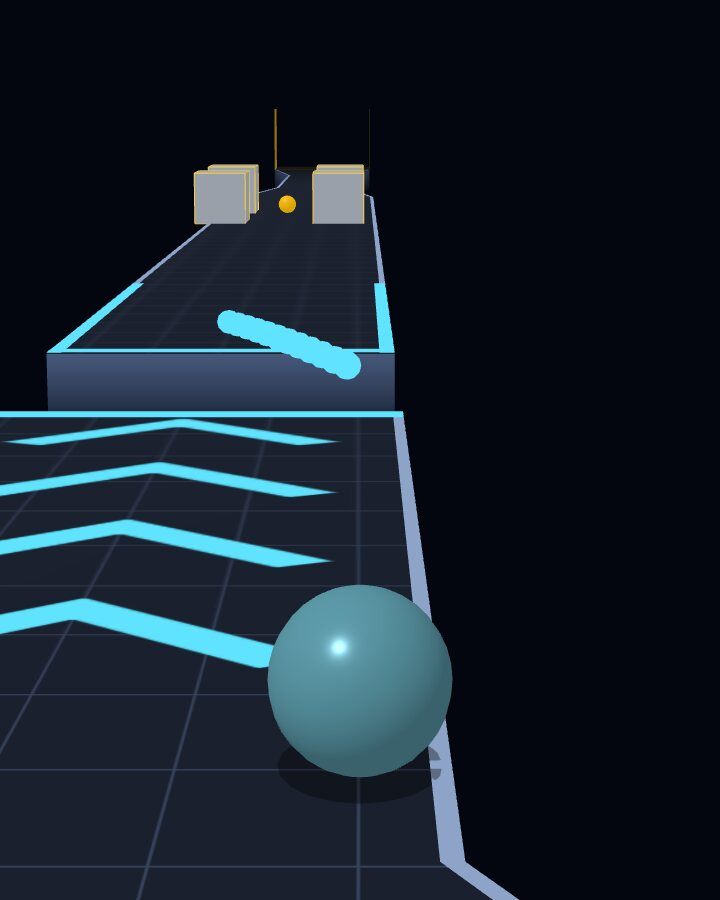
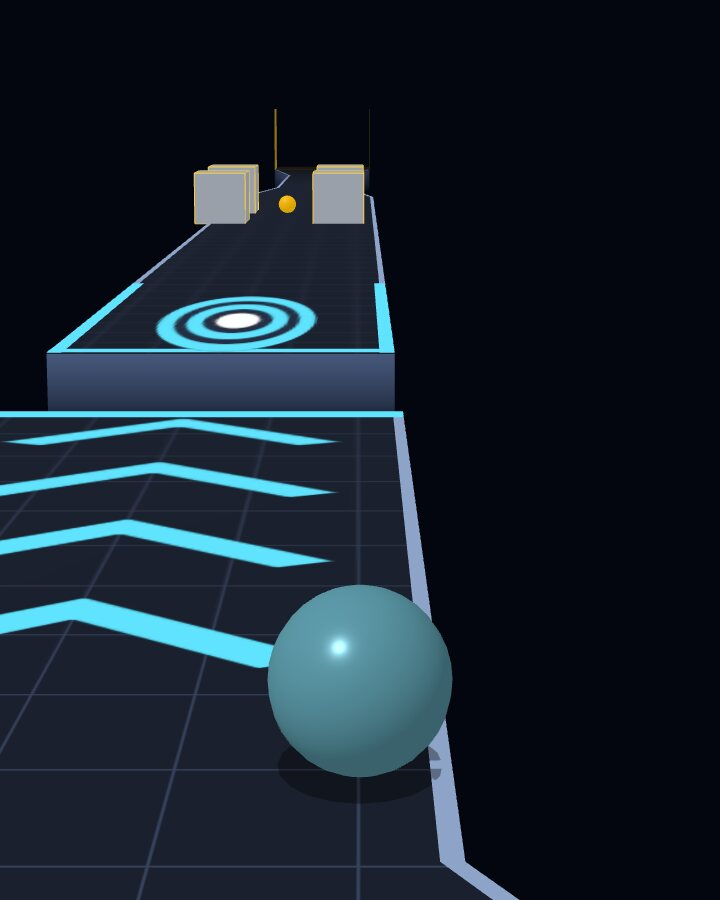
Ball Run: steering moves the ball as far as the thumb; landing bullseyes replace the dotted arc
Steering (every device): a drag became a speed clipped at the sideways top speed and the
clipped part was thrown away, so a quick swipe moved the ball 20-45% of the way at the start
of a run. The uncovered part is now owed and covered on the next ticks, at the same top
sideways speed, ending exactly where the thumb stopped. Arrow keys unchanged.

Jump cues (admin devices only, as before): the dotted flight arc followed the ball's steering
and read as a mystery moving thing. Now a fixed bullseye on each safe landing lane, two on a
split pad. How to play's jump picture and caption ("Land on the target.") updated.

CACHE v1670.

Claude-Session: https://claude.ai/code/session_01BGm65ZbjktmMvaKLeBqAJx

Changed region(s): [[0.2139, 0.3111, 0.5194, 0.4356]]

diff --git a/ball-run/js/render.js b/ball-run/js/render.js
@@ -62,8 +62,11 @@ const GATE_POOL_SIZE = 4;
 const STRIPE_LEN = 0.9;          // world units per amber/black stripe pair along a void's lip
 const HAZARD_BAND = 0.42;        // width of the striped band on each lip of a void
 const TUNNEL_CHEVRON_LEN = 2.5;  // world units per tunnel floor chevron
-const ARC_DOTS_PER_LANE = 13;    // flight-arc dots per landing lane (one lane, or two on a split pad)
-const ARC_DOTS_MAX = 2 * ARC_DOTS_PER_LANE;
+// Landing targets (2026-11-25, Matt on the dotted flight arc: "it's not clear AT ALL what their purpose is. Find a
+// better way"): one fixed bullseye painted on each safe landing lane, from the pad's front edge back. Nothing moves.
+const TARGET_SEGS = 3;           // pad segments a target covers (6 world units: reads as round from the chase camera)
+const TARGET_MAX_W = 2.6;        // world units across, at most
+const TARGET_MARGIN = 0.35;      // kept clear of a lane's edges
 
 // One repeatable TILE_SIZE-unit tile: grout drawn only on the top/left edges
 // so REPEAT-wrapping produces a single continuous grid line per tile boundary
@@ -453,7 +456,7 @@ export class Renderer {
   //     like holes" cause), and width changes have straight edges;
   //   - a deadly void has amber/black stripes on its lips and walls, and a striped centre strip from the
   //     first widening segment;
-  //   - a jump has cyan chevrons on its run-up, a cyan lip, a dotted flight arc to each landing lane, a
+  //   - a jump has cyan chevrons on its run-up, a cyan lip, a fixed bullseye on each safe landing lane (it replaced a dotted flight arc, 2026-11-25), a
   //     landing pad with a front face, a cyan rim and pillars, and down/up triangle posts for a drop/rise
   //     (these replace the amber gate posts);
   //   - outer edges get a pale rim and a slab face; the deck fades out before the generation window ends.
@@ -476,7 +479,6 @@ export class Renderer {
       q: new Float32Array(12), t: new Float32Array(8), m4: new THREE.Matrix4(),
       // the current segment's two ends (a = z0, b = z1) and its local right vector
       aCx: 0, aZ: 0, aY: 0, bCx: 0, bZ: 0, bY: 0, nx: 1, nz: 0,
-      arcLat: 0,
       col: {
         rim: lin(C.rim), jump: lin(C.jump), skirt: lin(C.skirtTop), pillar: lin(C.pillar), void: lin(this.colors.void),
       },
@@ -533,12 +535,16 @@ export class Renderer {
       u.haz = add(new QuadBatch(segs * 5, true), u.hazMat);
       u.chev = add(new QuadBatch(RUNUP_SEGS * 2, true), u.chevMat, 2);
 
-      u.dotGeo = new THREE.SphereGeometry(0.17, 8, 6);
-      u.dotMat = new THREE.MeshBasicMaterial({ color: C.jump });
-      u.dots = new THREE.InstancedMesh(u.dotGeo, u.dotMat, ARC_DOTS_MAX);
-      u.dots.frustumCulled = false;
-      u.dots.count = 0;
-      this.scene.add(u.dots);
+      // the landing target: a bullseye (shape, not hue alone: rings and a solid centre)
+      u.tgtTex = canvasTex(256, 256, (g, w) => {
+        g.clearRect(0, 0, w, w);
+        const c = w / 2;
+        const ring = (r, col) => { g.beginPath(); g.arc(c, c, r, 0, Math.PI * 2); g.fillStyle = col; g.fill(); };
+        ring(126, hex(C.jump)); ring(100, hex(C.deckTile)); ring(80, hex(C.jump)); ring(56, hex(C.deckTile)); ring(34, '#ffffff');
+      });
+      u.tgtTex.wrapS = u.tgtTex.wrapT = THREE.ClampToEdgeWrapping;
+      u.tgtMat = new THREE.MeshBasicMaterial({ map: u.tgtTex, vertexColors: true, transparent: true, depthWrite: false, side: THREE.DoubleSide });
+      u.tgt = add(new QuadBatch(TARGET_SEGS * 2 * 2, true), u.tgtMat, 2);
     }
   }
 
@@ -672,6 +678,18 @@ export class Renderer {
       this._cueWall(u.fx, aLo, bLo, 0, -D, C.skirt, C.void, false);
       this._cueWall(u.fx, aHi, bHi, 0, -D, C.skirt, C.void, false);
 
+      // landing targets: a bullseye on each safe lane, from the pad's front edge back TARGET_SEGS segments
+      const padIdx = onPad ? landHold - 1 - landLeft : -1;
+      if (padIdx >= 0 && padIdx < TARGET_SEGS) {
+        const v0 = padIdx / TARGET_SEGS, v1 = (padIdx + 1) / TARGET_SEGS;
+        if (hasVoid) {
+          this._cueTarget(aLo, aVlo - HAZARD_BAND, v0, v1);
+          this._cueTarget(aVhi + HAZARD_BAND, aHi, v0, v1);
+        } else {
+          this._cueTarget(aLo, aHi, v0, v1);
+        }
+      }
+
       // landing pad (first segment after a gap): front face, cyan front lip, pillars
       const prev = segs[i - 1];
       if (prev && prev.isGap) {
@@ -708,7 +726,6 @@ export class Renderer {
       }
     }
     for (let k = 0; k < u.batches.length; k++) u.batches[k].end();
-    if (this.deck) this._layoutArc(sim);
   }
 
   /** A pillar under the landing pad's near edge at lateral `lat`, from the slab's bottom into the void. */
@@ -719,60 +736,23 @@ export class Renderer {
     u.fx.quad(u.q, u.t, C.pillar, C.pillar, C.void, C.void);
   }
 
-  /** The dotted flight arc: the SAME formula as Sim.launchJump (impulse from the ball's current
-   *  speed), from the ball's lateral to each landing lane's centre, shown from the moment the next
-   *  gap is in view until the ball lands. */
-  _layoutArc(sim) {
-    const u = this._cue, dots = u.dots, jc = this._jumpCfg;
-    let n = 0;
-    if (jc && (sim.state === 'playing' || sim.state === 'airborne')) {
-      const segs = sim.track.segments;
-      let gap = null, land = null;
-      for (let i = 0; i < segs.length; i++) {
-        const s = segs[i];
-        if (s.jumpMeta && s.z0 + s.jumpMeta.gapLength > sim.z) {
-          for (let k = i; k < segs.length; k++) if (segs[k].jumpLanding) { land = segs[k]; break; }
-          gap = s;
-          break;
-        }
-      }
-      if (gap && land && gap.z0 - sim.z < SEGMENTS_AHEAD * SEGMENT_LENGTH * 0.8) {
-        if (sim.state === 'playing') u.arcLat = sim.lateralOffset;
-        const L = gap.jumpMeta.gapLength, Y = gap.jumpMeta.landingY;
-        const T = L / Math.max(1, sim.speed);
-        const vy0 = Y / T + 0.5 * jc.gravity * T;
-        const wc = land.wCenter || 0, v = land.void0 || 0, hw = land.w0 / 2;
-        const lanes = v > 0.001 ? 2 : 1;
-        for (let lane = 0; lane < lanes; lane++) {
-          const target = lanes === 1 ? wc : wc + (lane ? 1 : -1) * (hw + v) / 2;
-          for (let k = 1; k < ARC_DOTS_PER_LANE; k++) {
-            const s = k / ARC_DOTS_PER_LANE;
-            const z = gap.z0 + s * L;
-            if (z < sim.z + 0.9) continue;
-            const t = s * T;
-            const y = vy0 * t - 0.5 * jc.gravity * t * t + BALL_RADIUS;
-            const lat = u.arcLat + (target - u.arcLat) * s;
-            const seg = sim.track.segmentAt(z);
-            const f = Math.min(1, Math.max(0, (z - seg.z0) / (seg.z1 - seg.z0)));
-            const cx = seg.cx0 + (seg.cx1 - seg.cx0) * f;
-            const yaw = Math.atan2(seg.cx1 - seg.cx0, seg.z1 - seg.z0);
-            u.m4.makeTranslation(cx + lat * Math.cos(yaw), y, z - lat * Math.sin(yaw));
-            if (n < ARC_DOTS_MAX) dots.setMatrixAt(n++, u.m4);
-          }
-        }
-      }
-    }
-    dots.count = n;
-    if (n) dots.instanceMatrix.needsUpdate = true;
+  /** One segment's slice (v0..v1 of the texture along z) of a bullseye centred on the lane lo..hi. */
+  _cueTarget(lo, hi, v0, v1) {
+    const u = this._cue, t = u.t;
+    const half = Math.min(TARGET_MAX_W, hi - lo - 2 * TARGET_MARGIN) / 2;
+    if (half < 0.4) return;
+    const mid = (lo + hi) / 2, l = mid - half, h = mid + half;
+    this._cuePt(0, l, 0.03, 0); this._cuePt(0, h, 0.03, 3); this._cuePt(1, h, 0.03, 6); this._cuePt(1, l, 0.03, 9);
+    t[0] = 0; t[1] = v0; t[2] = 1; t[3] = v0; t[4] = 1; t[5] = v1; t[6] = 0; t[7] = v1;
+    u.tgt.quad(u.q, t, null, null, null, null);
   }
 
   _disposeCues() {
     const u = this._cue;
     for (const b of u.batches) { b.dispose(); this.scene.remove(b.mesh); }
-    for (const k of ['tunMat', 'topMat', 'fxMat', 'hazMat', 'chevMat', 'tunTex', 'tileTex', 'stripeTex', 'chevTex', 'dotGeo', 'dotMat']) {
+    for (const k of ['tunMat', 'topMat', 'fxMat', 'hazMat', 'chevMat', 'tunTex', 'tileTex', 'stripeTex', 'chevTex', 'tgtTex', 'tgtMat']) {
       if (u[k]) u[k].dispose();
     }
-    if (u.dots) { u.dots.dispose(); this.scene.remove(u.dots); }
     this._cue = null;
   }
 

diff --git a/ball-run/js/sim.js b/ball-run/js/sim.js
@@ -47,6 +47,8 @@ export class Sim {
 
     this.lateralOffset = 0;  // relative to the track centerline
     this.lateralVelocity = 0;
+    this._keySteer = false;  // the sideways speed left over came from an arrow key (it coasts out, as it always did)
+    this.steerOwed = 0;      // world units of finger drag the ball has not travelled yet (see steer())
 
     this.rollAngle = 0;      // ball roll, radians, driven by forward speed (visual, but cheap enough to keep as sim data)
 
@@ -102,6 +104,43 @@ export class Sim {
     else if (this.state === RunState.FALLING) this.stepFalling(dt);
   }
 
+  /** Sideways steering, the same on the ground and in the air.
+   *  A finger drag moves the ball EXACTLY DRAG_SENSITIVITY world units per screen width dragged, however fast
+   *  the swipe (2026-11-25, Matt: "i have to move my thumb a farther distance across my phone to move the ball
+   *  a certain distance"). Until then a drag was turned into a speed and clipped at lateralMax, and the clipped
+   *  part was thrown away: a 40% swipe in 0.15 s moved the ball 20-45% of the way at the start of a run. Now the
+   *  part the ball cannot cover this tick is OWED (steerOwed) and covered on the next ticks, at the same top
+   *  sideways speed as before (Track's obstacle spacing reads lateralMax, so it is unchanged).
+   *  Arrow keys are unchanged: a steady speed while held. */
+  steer(dt, dragAxis, keyAxis) {
+    const lateralMax = LATERAL_MAX_SPEED_BASE * (1 + LATERAL_SPEED_SCALE_WITH_FORWARD * (this.speed / this.cfg.baseSpeed - 1));
+    const damp = Math.min(1, LATERAL_DAMPING * dt);
+    // World +X renders as screen-LEFT (see stepPlaying), hence the minus.
+    if (dragAxis !== 0) this.steerOwed += -dragAxis * DRAG_SENSITIVITY;
+    if (dragAxis === 0 && this.steerOwed === 0) {
+      if (keyAxis === 0 && !this._keySteer) {
+        // a finger drag already finished exactly where it was owed: no drift, only the lean (render.js) settles
+        this.lateralVelocity *= 1 - damp;
+        return;
+      }
+      this._keySteer = true; // an arrow key's speed coasts out after release, as it always did (until the next drag)
+      const commanded = -keyAxis * 1.6 * DRAG_SENSITIVITY;
+      const clamped = Math.max(-lateralMax, Math.min(lateralMax, commanded));
+      this.lateralVelocity += (clamped - this.lateralVelocity) * damp;
+      this.lateralOffset += this.lateralVelocity * dt;
+      return;
+    }
+    this._keySteer = false;
+    const owed = this.steerOwed;
+    const want = Math.max(-lateralMax, Math.min(lateralMax, owed / dt));
+    this.lateralVelocity += (want - this.lateralVelocity) * damp;
+    let move = this.lateralVelocity * dt;
+    // never past what is owed (no overshoot and wobble back): finish exactly on it
+    if ((owed > 0 && move > owed) || (owed < 0 && move < owed)) { move = owed; this.lateralVelocity = move / dt; }
+    this.lateralOffset += move;
+    this.steerOwed = Math.abs(owed - move) < 1e-6 ? 0 : owed - move;
+  }
+
   stepPlaying(dt, dragAxis, keyAxis) {
     this.elapsed += dt;
 
@@ -123,13 +162,7 @@ export class Sim {
     // ball right on screen, so the input axis is negated once, here, to land
     // in world space. This is the single sign flip in the whole input chain;
     // DRAG_SENSITIVITY itself stays a plain positive constant (config.js).
-    const inputAxis = dragAxis !== 0 ? dragAxis : keyAxis * dt * 1.6;
-    const lateralMax = LATERAL_MAX_SPEED_BASE * (1 + LATERAL_SPEED_SCALE_WITH_FORWARD * (this.speed / this.cfg.baseSpeed - 1));
-    const commandedVelocity = -(inputAxis / dt) * DRAG_SENSITIVITY;
-    const clampedCommand = Math.max(-lateralMax, Math.min(lateralMax, commandedVelocity));
-    const damp = Math.min(1, LATERAL_DAMPING * dt);
-    this.lateralVelocity += (clampedCommand - this.lateralVelocity) * damp;
-    this.lateralOffset += this.lateralVelocity * dt;
+    this.steer(dt, dragAxis, keyAxis);
 
     // --- Track frame at the ball's new position ---
     const frame = this.track.frameAt(this.z);
@@ -300,13 +333,7 @@ export class Sim {
     this.rollAngle -= (this.speed * dt) / BALL_RADIUS;
 
     // Steering still works in the air (section 3) - identical model to stepPlaying's.
-    const inputAxis = dragAxis !== 0 ? dragAxis : keyAxis * dt * 1.6;
-    const lateralMax = LATERAL_MAX_SPEED_BASE * (1 + LATERAL_SPEED_SCALE_WITH_FORWARD * (this.speed / this.cfg.baseSpeed - 1));
-    const commandedVelocity = -(inputAxis / dt) * DRAG_SENSITIVITY;
-    const clampedCommand = Math.max(-lateralMax, Math.min(lateralMax, commandedVelocity));
-    const damp = Math.min(1, LATERAL_DAMPING * dt);
-    this.lateralVelocity += (clampedCommand - this.lateralVelocity) * damp;
-    this.lateralOffset += this.lateralVelocity * dt;
+    this.steer(dt, dragAxis, keyAxis);
 
     // Pure projectile motion from the launch impulse - never overridden until landing snaps it.
     this.vy -= this.jumpGravity * dt;

diff --git a/sw.js b/sw.js
@@ -5,7 +5,7 @@
 // (js/hub.js, "FEWER UPDATES FOR PLAYERS"). Raise it to the new CACHE number on a deploy that every
 // phone should get now; leave it alone for small fixes.
 const IMPORTANT_SINCE = 1669;
-const CACHE = 'game-hub-v1669';
+const CACHE = 'game-hub-v1670';
 
 const ASSETS = [
   './',
@@ -1213,21 +1213,21 @@ const REST_MANIFEST = {
   './dots-boxes/js/strings.js': '3dbd1717e2',
   './ball-run/index.html': '5907192c6a',
   './ball-run/css/ball-run.css': '99e29fa753',
-  './ball-run/js/ui.js': '258f4b1a2e',
+  './ball-run/js/ui.js': '2c3d253af1',
   './ball-run/js/config.js': 'cd5e08061e',
   './ball-run/js/track.js': '7e7c04a63d',
-  './ball-run/js/sim.js': 'd744e70264',
+  './ball-run/js/sim.js': '7a966764f9',
   './ball-run/js/input.js': '7f41531072',
-  './ball-run/js/render.js': 'f15e88118c',
-  './ball-run/js/strings.js': '1d53e2bd3f',
+  './ball-run/js/render.js': 'ffe5302114',
+  './ball-run/js/strings.js': 'd722abd6d2',
   './ball-run/vendor/three.module.min.js': 'd719de9cf8',
   './ball-run/img/help/blocks-classic.jpg': 'a917e7c316',
   './ball-run/img/help/blocks-orbital.jpg': '9acd4cb541',
-  './ball-run/img/help/droprise.jpg': '443246be34',
+  './ball-run/img/help/droprise.jpg': 'f0133cff3f',
   './ball-run/img/help/edge-classic.jpg': '47df7006c8',
   './ball-run/img/help/edge-orbital.jpg': '2c513886d1',
   './ball-run/img/help/hole.jpg': '7a274b64b0',
-  './ball-run/img/help/jump.jpg': '106a7911cf',
+  './ball-run/img/help/jump.jpg': '8bf1f01663',
   './ball-run/img/help/pickups.jpg': '631fdc822d',
   './ball-run/img/help/steer-classic.jpg': '307c7de2f2',
   './ball-run/img/help/steer-orbital.jpg': '659f406ebf',

diff --git a/ball-run/js/strings.js b/ball-run/js/strings.js
@@ -51,7 +51,7 @@ export const STRINGS = {
     hp_edge: 'Stay on the track.',
     hp_tunnel: 'Tunnels speed you up.',
     hp_hole: 'Stripes = a hole.',
-    hp_jump: 'Arrows = a jump. Land on the pad.',
+    hp_jump: 'Arrows = a jump. Land on the target.',
     hp_droprise: 'Triangles: pad lower or higher.',
     hp_pickups: 'Orbs +1. Hearts = extra life.',
     score_one: '{n} point',
@@ -102,7 +102,7 @@ export const STRINGS = {
     hp_edge: 'No te salgas de la pista.',
     hp_tunnel: 'Los túneles te aceleran.',
     hp_hole: 'Rayas = un agujero.',
-    hp_jump: 'Flechas = salto. Cae en la base.',
+    hp_jump: 'Flechas = salto. Cae en la diana.',
     hp_droprise: 'Triángulos: base más baja o alta.',
     hp_pickups: 'Orbes +1. Corazones = vida extra.',
     score_one: '{n} punto',

diff --git a/ball-run/js/ui.js b/ball-run/js/ui.js
@@ -394,7 +394,7 @@ const CUE_HELP_ORBITAL = [
   { img: 'edge-orbital', key: 'hp_edge', mark: [207, 256, 'r'] },
   { img: 'tunnel-orbital', key: 'hp_tunnel', mark: [180, 120, 'r'] },
   { img: 'hole', key: 'hp_hole', mark: [298, 200, 'l'] },
-  { img: 'jump', key: 'hp_jump', mark: [114, 171, 'l'] },
+  { img: 'jump', key: 'hp_jump', mark: [119, 161, 'l'] },
   { img: 'droprise', key: 'hp_droprise', mark: [130, 116, 'r'] },
   { img: 'pickups', key: 'hp_pickups', mark: [212, 160, 'r'] },
 ];
